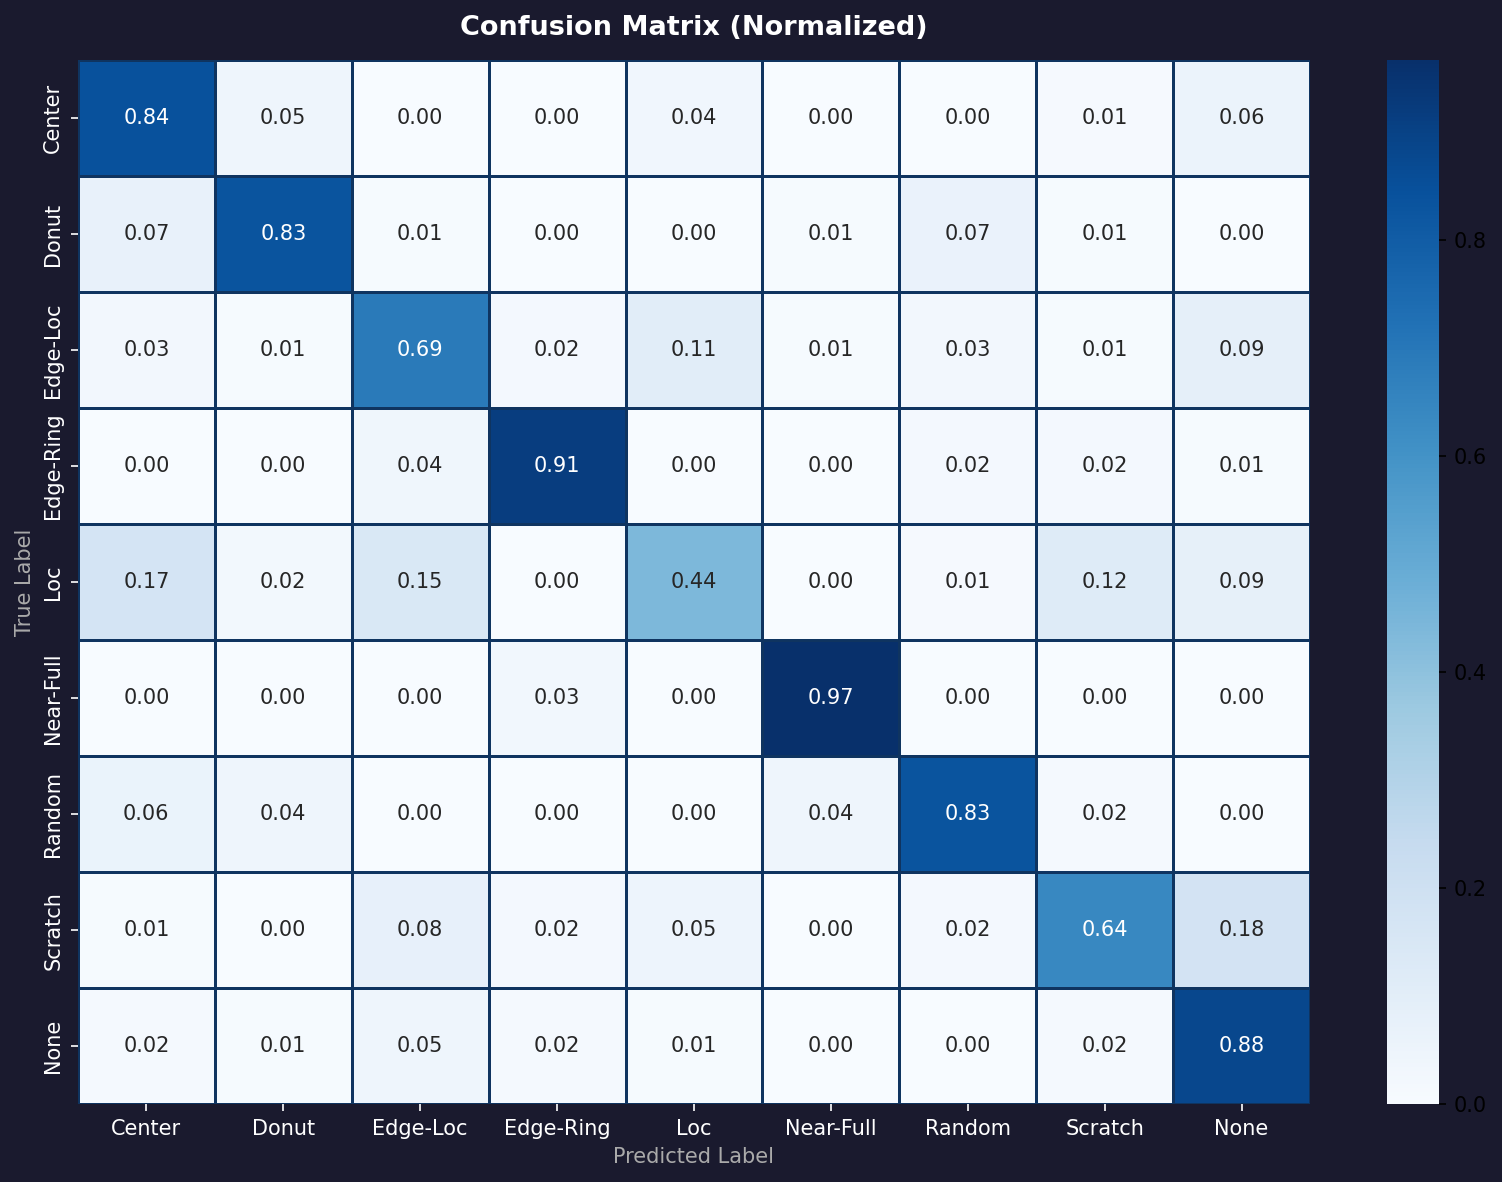
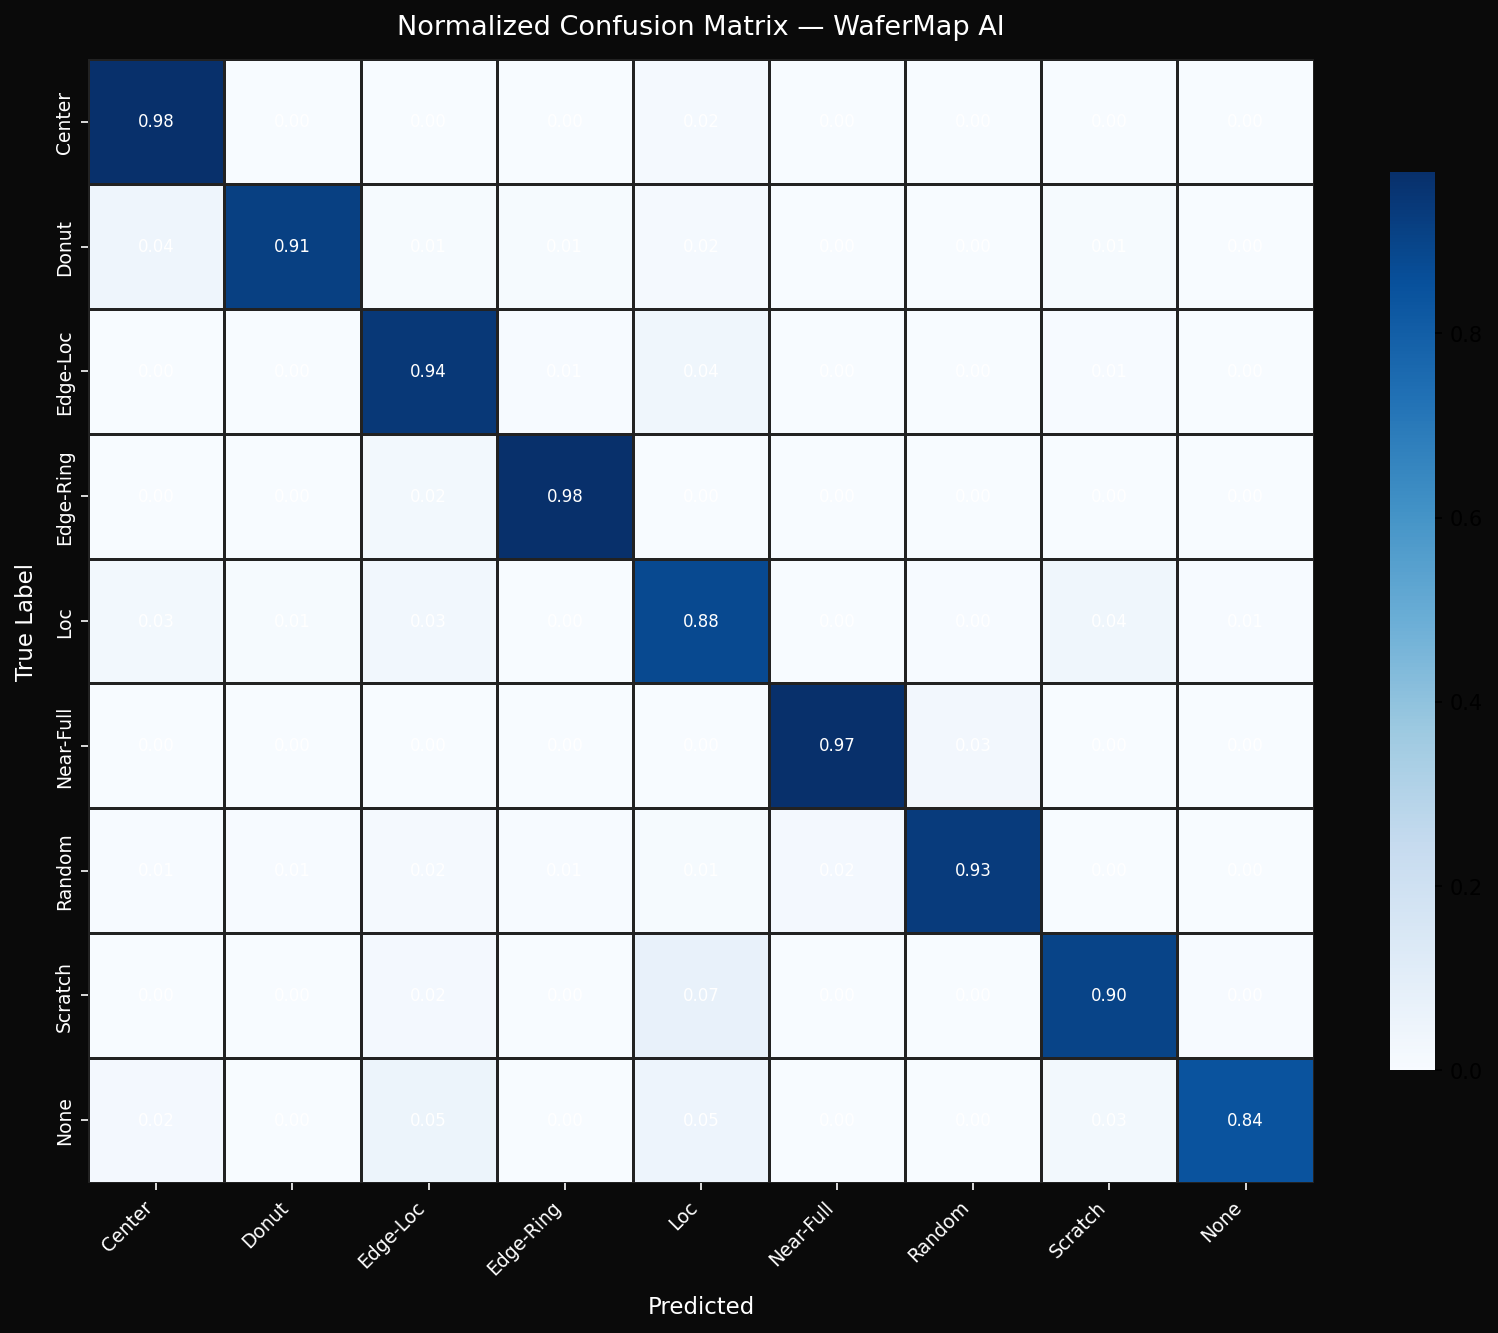
Add standalone evaluate.py and final test set report (85.94% acc, F1=0.73)

diff --git a/evaluate.py b/evaluate.py
@@ -1,0 +1,153 @@
+"""
+evaluate.py
+===========
+Standalone test-set evaluation script.
+
+Run this after training to generate final metrics, confusion matrix,
+classification report, and F1 bar charts from the saved best model.
+
+Usage:
+    python evaluate.py
+"""
+
+import os, sys, json, time
+import torch
+import numpy as np
+from sklearn.metrics import classification_report
+import matplotlib
+matplotlib.use("Agg")
+import matplotlib.pyplot as plt
+import seaborn as sns
+from sklearn.metrics import confusion_matrix
+from tqdm import tqdm
+
+ROOT_DIR = os.path.dirname(os.path.abspath(__file__))
+sys.path.insert(0, ROOT_DIR)
+
+from src.dataset import CLASS_NAMES, NUM_CLASSES, get_dataloaders
+from src.model import build_model
+
+MODEL_PATH  = os.path.join(ROOT_DIR, "models", "efficientnet_wafer.pth")
+REPORT_DIR  = os.path.join(ROOT_DIR, "reports")
+METRICS_PATH = os.path.join(REPORT_DIR, "phase2_metrics.json")
+os.makedirs(REPORT_DIR, exist_ok=True)
+
+DEVICE = torch.device("cuda" if torch.cuda.is_available() else "cpu")
+print(f"\n[Eval] Device: {DEVICE}")
+
+# ── Load model ───────────────────────────────────────────────────────────────
+if not os.path.exists(MODEL_PATH):
+    print(f"[ERROR] Model not found at {MODEL_PATH}")
+    print("        Please finish training first: python src/train.py")
+    sys.exit(1)
+
+model = build_model(num_classes=NUM_CLASSES, pretrained=False).to(DEVICE)
+model.load_state_dict(torch.load(MODEL_PATH, map_location=DEVICE))
+model.eval()
+print(f"[Eval] Model loaded from {MODEL_PATH}")
+
+# ── Load test data ────────────────────────────────────────────────────────────
+print("[Eval] Loading test split...")
+_, _, test_loader, _ = get_dataloaders(batch_size=64, num_workers=0)
+print(f"[Eval] Test batches: {len(test_loader)}")
+
+# ── Run inference ─────────────────────────────────────────────────────────────
+all_preds, all_labels = [], []
+total, correct = 0, 0
+
+with torch.no_grad():
+    for imgs, labels in tqdm(test_loader, desc="[Test]"):
+        imgs, labels = imgs.to(DEVICE), labels.to(DEVICE)
+        outputs = model(imgs)
+        preds = outputs.argmax(dim=1)
+        all_preds.extend(preds.cpu().numpy())
+        all_labels.extend(labels.cpu().numpy())
+        correct += (preds == labels).sum().item()
+        total += labels.size(0)
+
+test_acc = correct / total
+
+# ── Print report ──────────────────────────────────────────────────────────────
+report = classification_report(all_labels, all_preds, target_names=CLASS_NAMES, output_dict=True)
+macro_f1 = report["macro avg"]["f1-score"]
+
+print("\n" + "="*60)
+print("  TEST SET RESULTS")
+print("="*60)
+print(f"  Overall Accuracy : {test_acc*100:.2f}%")
+print(f"  Macro F1 Score   : {macro_f1:.4f}")
+print()
+print(classification_report(all_labels, all_preds, target_names=CLASS_NAMES))
+
+# ── Save JSON metrics ─────────────────────────────────────────────────────────
+metrics = {
+    "test_accuracy": round(test_acc * 100, 2),
+    "macro_f1": round(macro_f1, 4),
+    "device": str(DEVICE),
+    "per_class": {
+        cls: {
+            "precision": round(report[cls]["precision"], 4),
+            "recall":    round(report[cls]["recall"],    4),
+            "f1":        round(report[cls]["f1-score"],  4),
+            "support":   int(report[cls]["support"]),
+        }
+        for cls in CLASS_NAMES if cls in report
+    }
+}
+with open(METRICS_PATH, "w") as f:
+    json.dump(metrics, f, indent=2)
+print(f"[Save] Metrics JSON --> {METRICS_PATH}")
+
+# ── Confusion Matrix ──────────────────────────────────────────────────────────
+cm = confusion_matrix(all_labels, all_preds)
+cm_norm = cm.astype(float) / cm.sum(axis=1, keepdims=True)
+
+fig, ax = plt.subplots(figsize=(11, 9))
+fig.patch.set_facecolor("#0a0a0a")
+ax.set_facecolor("#0a0a0a")
+sns.heatmap(cm_norm, annot=True, fmt=".2f", cmap="Blues",
+            xticklabels=CLASS_NAMES, yticklabels=CLASS_NAMES,
+            linewidths=0.5, linecolor="#222",
+            cbar_kws={"shrink": 0.8}, ax=ax,
+            annot_kws={"size": 8, "color": "white"})
+ax.set_xlabel("Predicted", color="white", fontsize=11, labelpad=8)
+ax.set_ylabel("True Label", color="white", fontsize=11, labelpad=8)
+ax.set_title("Normalized Confusion Matrix — WaferMap AI", color="white", fontsize=13, pad=12)
+ax.tick_params(colors="white", labelsize=9)
+plt.setp(ax.get_xticklabels(), rotation=45, ha="right")
+plt.tight_layout()
+cm_path = os.path.join(REPORT_DIR, "phase2_confusion_matrix.png")
+plt.savefig(cm_path, dpi=150, bbox_inches="tight", facecolor=fig.get_facecolor())
+plt.close()
+print(f"[Save] Confusion matrix --> {cm_path}")
+
+# ── F1 Bar Chart ──────────────────────────────────────────────────────────────
+f1_scores = [report[c]["f1-score"] for c in CLASS_NAMES if c in report]
+colors = ["#e74c3c" if f < 0.7 else "#f5b041" if f < 0.85 else "#2ecc71" for f in f1_scores]
+
+fig, ax = plt.subplots(figsize=(10, 5))
+fig.patch.set_facecolor("#0a0a0a")
+ax.set_facecolor("#0a0a0a")
+bars = ax.barh([c for c in CLASS_NAMES if c in report], f1_scores, color=colors, height=0.6)
+ax.set_xlim(0, 1.05)
+ax.set_xlabel("F1 Score", color="white", fontsize=11)
+ax.set_title("Per-Class F1 Scores — WaferMap AI", color="white", fontsize=13, pad=10)
+ax.tick_params(colors="white")
+ax.spines[:].set_color("#333")
+for bar, val in zip(bars, f1_scores):
+    ax.text(val + 0.01, bar.get_y() + bar.get_height()/2,
+            f"{val:.3f}", va="center", color="white", fontsize=9)
+ax.axvline(x=macro_f1, color="#7c5cbf", linestyle="--", linewidth=1.5,
+           label=f"Macro avg = {macro_f1:.3f}")
+ax.legend(facecolor="#111", labelcolor="white")
+plt.tight_layout()
+f1_path = os.path.join(REPORT_DIR, "phase2_f1_scores.png")
+plt.savefig(f1_path, dpi=150, bbox_inches="tight", facecolor=fig.get_facecolor())
+plt.close()
+print(f"[Save] F1 bar chart   --> {f1_path}")
+
+print("\n" + "="*60)
+print("  Evaluation complete!")
+print(f"  Test Accuracy : {test_acc*100:.2f}%")
+print(f"  Macro F1      : {macro_f1:.4f}")
+print("="*60)
